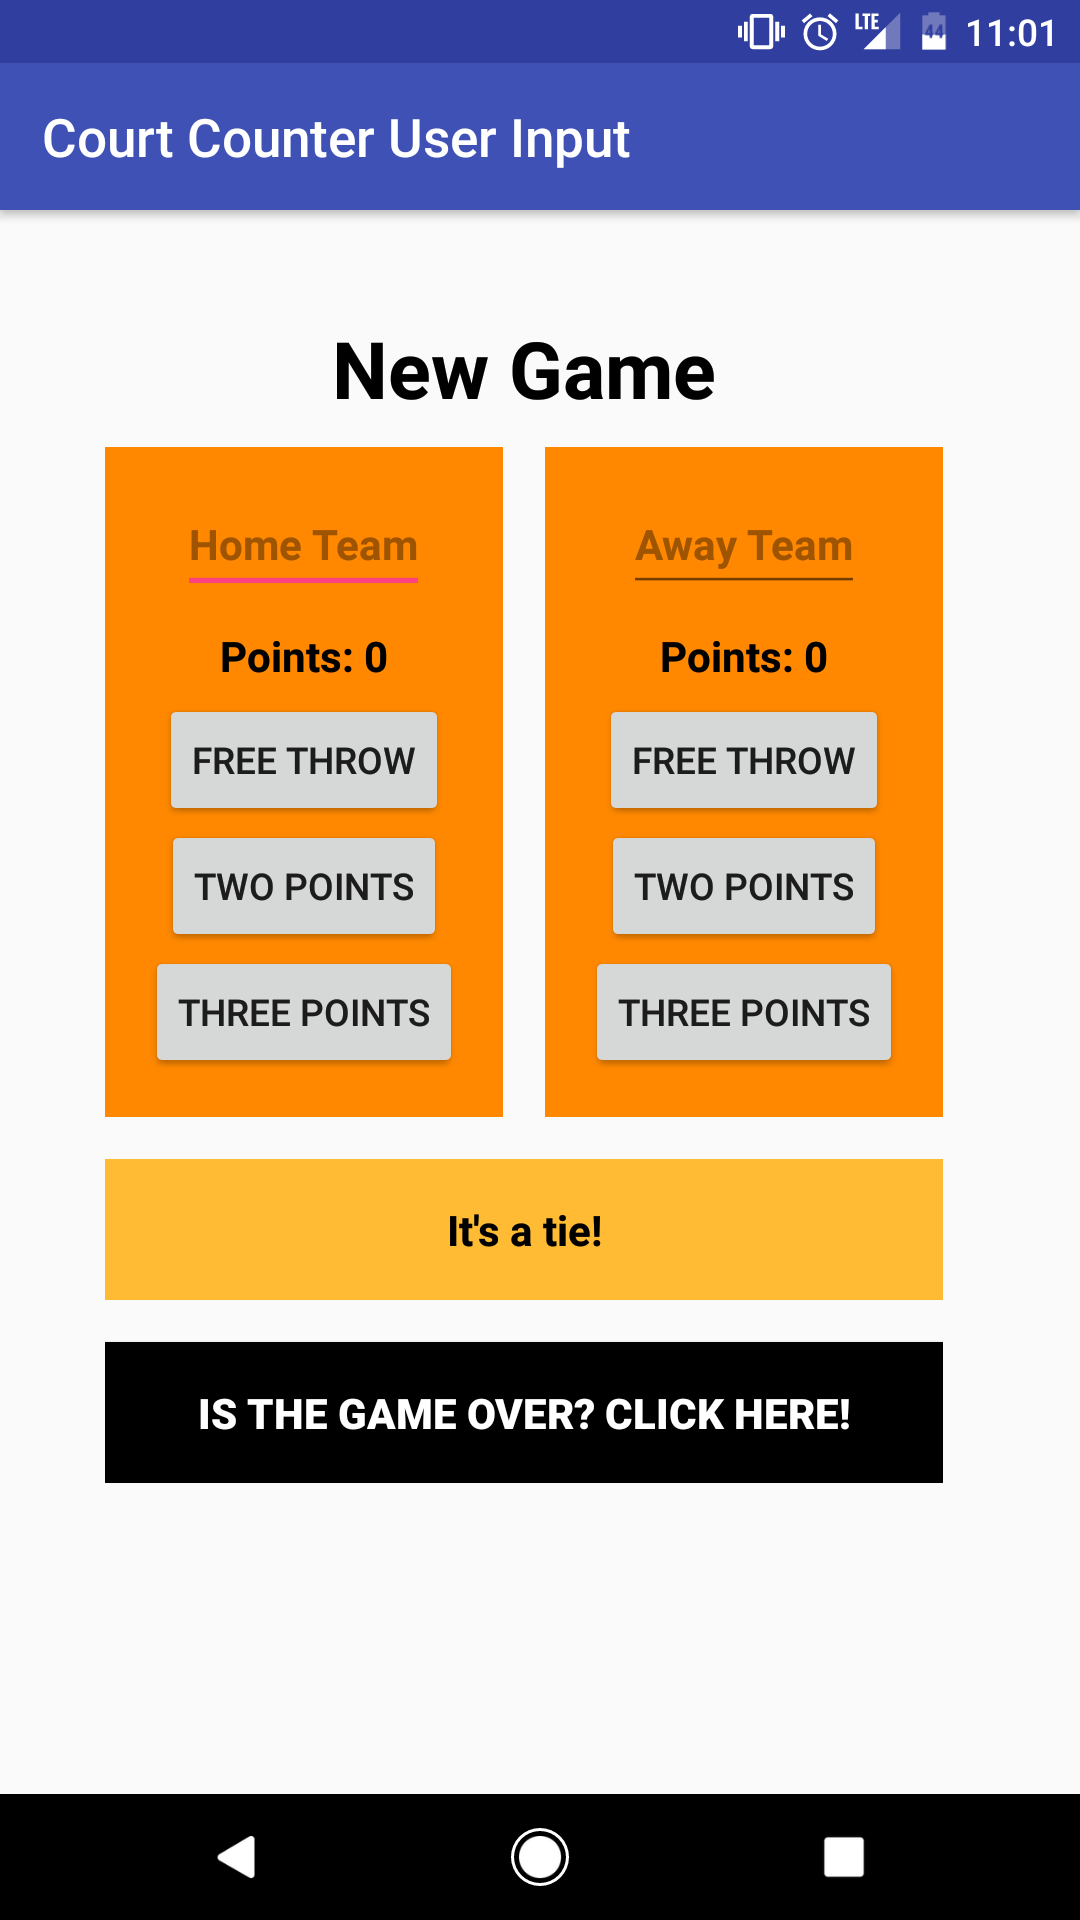
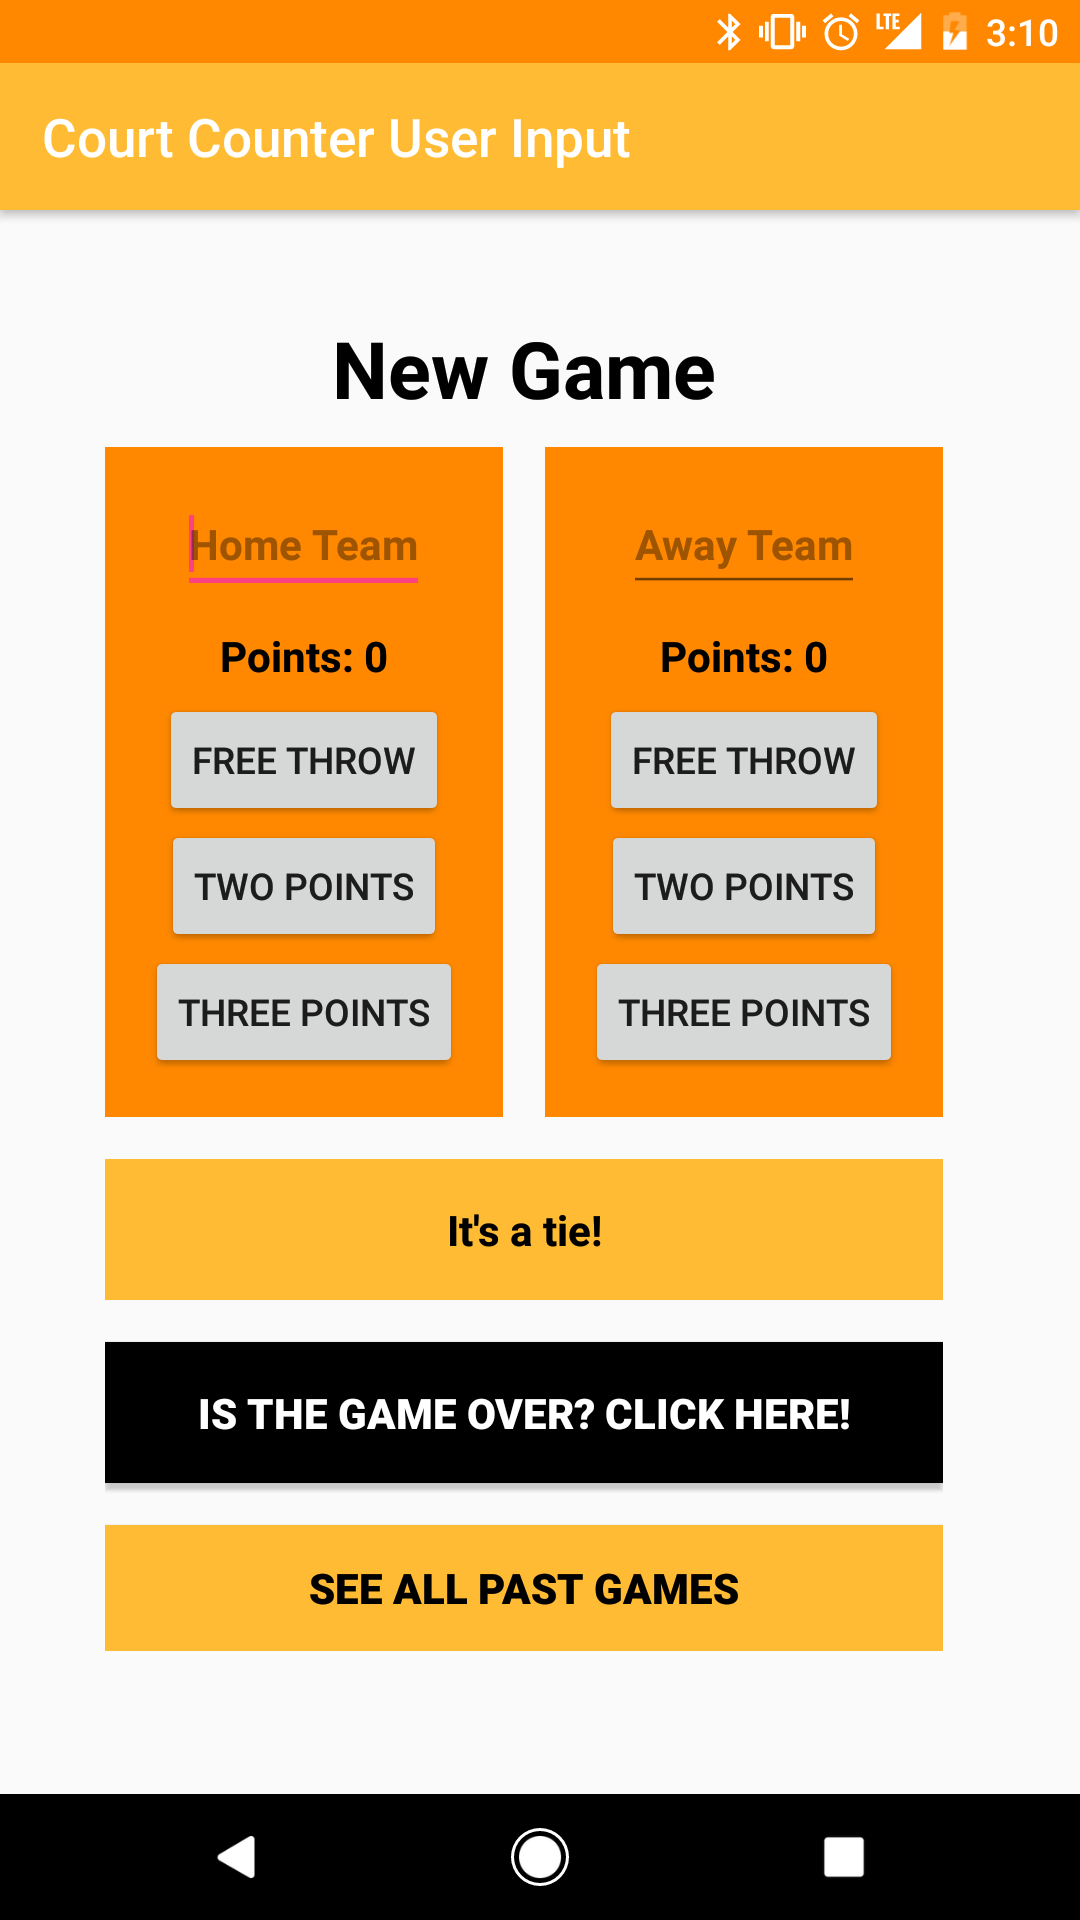
updated projects
Changed projects to reflect changes to court counter app, including a new activity and a new class.

Changed region(s): [[0.0, 0.0, 1.0, 0.125], [0.0917, 0.75, 0.8861, 0.875]]

diff --git a/projects.html b/projects.html
@@ -38,7 +38,7 @@
 
         <div></div>
         <div id="project2container">
-            <a class="project">2) This is an application I built after taking several courses in the Android Basics Nanodegree on Udacity. The application takes in team names for a basketball game, and allows the quick and easy counting of points. It also enables the user to restart the counting process, and determines the winner. It's a pretty simple app, but I like it because I took a pretty basic idea that we worked on in class and was able to make it into a really responsive and useful application. (My little brother plays basketball and they never keep score, but my mom likes to keep score by hand, so I was somewhat thinking of her when I built it.) In the future, I would like to store the team points and final scores in Game objects, and have a second screen with a log of all those Game objects. I'd also like to make an undo button, which I would likely do using a Stack. Further explanation is available on Github, as are other Android applications that I have built.</a>
+            <a class="project">2) This is an application I built after taking several courses in the Android Basics Nanodegree on Udacity. The app allows the quick and easy counting of points for user-determined teams. It also outputs the winner, enables the user to start a new game, and records the information from that game for display in a separate activity. To access that separate activity, you just click the See All Past Games button. It's a pretty simple app, but I like it because I took a pretty basic idea that we worked on in class and was able to make it into a really responsive and useful application. (My little brother plays basketball and they never keep score, but my mom likes to keep score by hand, so I was somewhat thinking of her when I built it.) Further explanation is available on Github, as are other Android applications that I have built.</a>
             <a href="https://github.com/mduflock/court_counter/" class="projlink2" style="background: #0ff;">Link to Project 2.</a>
 
             <div id="project2images">
@@ -46,6 +46,7 @@
                 <img src="court_2.png" class="proj2img" alt="Filling in team names can be done at any time, and alters the title text. Calculating points is easy, quick, and triggers a change in the winner displayed below.">
                 <img src="court_3.png" class="proj2img"  alt="All buttons are disabled after the game has finished, and a final winner is displayed below. The Game Over button changes to allow the user to start a new game on the second press.">
                 <img src="court_4.png" class="proj2img"  alt="Everything resets after the user opts to start a new game.">
+                <img src="court_5.png" class="proj2img" alt="You can click through to view your complete game history in a separate activity.">
             </div>
 
             <div id="project2descriptions">
@@ -53,6 +54,7 @@
                 <a class="proj2desc">Filling in team names can be done at any time, and alters the title text. Calculating points is easy, quick, and triggers a change in the winner displayed below.</a>
                 <a class="proj2desc">All buttons are disabled after the game has finished, and a final winner is displayed below. The Game Over button changes to allow the user to start a new game on the second press.</a>
                 <a class="proj2desc">Everything resets after the user opts to start a new game.</a>
+                <a class="proj2desc">Clicking the See All Past Games button brings the user to a log of all past recorded games. (A game is recorded in a Game object when the Game Over button is pressed.)</a>
             </div>
         </div>
 

diff --git a/styles.css b/styles.css
@@ -141,13 +141,13 @@ body {
 }
 
 .proj2img {
-    width: 23%;
+    width: 18%;
     margin: 5px;
     height: auto;
 }
 
 .proj2desc {
-    width: 23%;
+    width: 18%;
     margin: 7px;
     float: left;
 }
